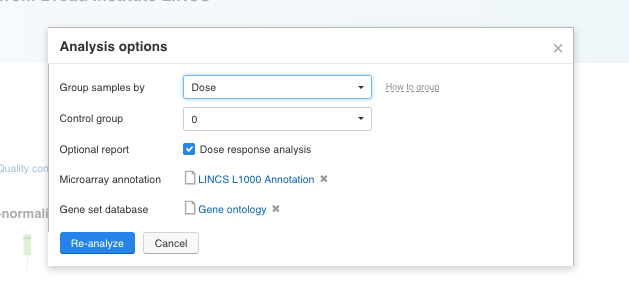
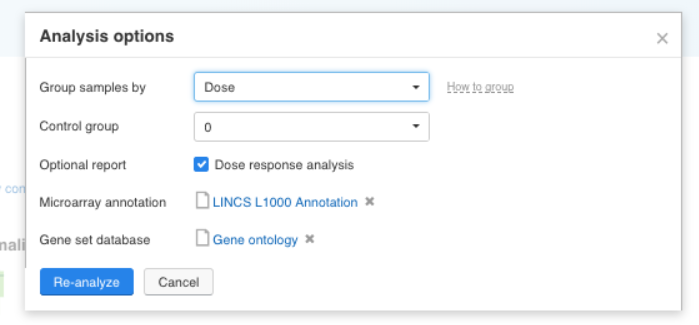
fix pictures

Changed region(s): [[0.0, 0.0312, 0.9968, 0.9688], [0.2719, 0.1875, 0.7552, 0.5312]]

diff --git a/source/tutorials/Microarray_explorer/microarray-explorer-tutorial.rst b/source/tutorials/Microarray_explorer/microarray-explorer-tutorial.rst
@@ -27,6 +27,7 @@ Signatures (LINCS) `Project`_ :
 Click the name of the experiment and open it in **Metainfo Editor** to learn more:
 
 .. image:: images/me.png
+   :align: center
 
 .. _Project: http://www.lincsproject.org/
 
@@ -42,11 +43,13 @@ There are two tabs on the opening application page:
 1. **Description tab**, where you can find metadata associated with the data set of your choice.
 
 .. image:: images/description.png
+   :align: center
 
 2. **Differential expression** tab that allows you to run the pipeline and
    change default parameters if it is necessary.
 
 .. image:: images/dif-exp-tab.png
+   :align: center
 
 You can consider setting the following parameters:
 
@@ -73,6 +76,7 @@ You can consider setting the following parameters:
 To start the analysis just click on the **Analyze** button.
 
 .. image:: images/start-analysis.png
+   :align: center
 
 In the earlier stage in the microarray data analysis Microarray Explorer performs **normalisation**
 to eliminate some sources of technical variation which can affect the measured gene expression levels.
@@ -84,6 +88,8 @@ the results and apply filters to show particular genes and pathways. Change para
 the analysis** if necessary.
 
 .. image:: images/re-run.png
+   :scale: 75 %
+   :align: center
 
 You can save the results with set filters as an immutable view by clicking the
 **Save current view** and share the view with your collaborator by clicking the **Share** link.
@@ -99,17 +105,20 @@ Let's look at the interactive reports that can be generated by the Microarray Ex
    be filtered and sorted by Log FC, Log Expr, and FDR parameters.
 
 .. image:: images/DE.png
+   :align: center
 
 2. **Benchmark dose** report.  The output of *Dose Response Analysis* that represents the compound
    dosages at which genes start to show significant expression changes, i.e. the *Benchmark Doses* (BMDs).
 
 .. image:: images/benchmarck-dose.png
+   :align: center
 
 3. **Gene set enrichment** report. The report provides results of *Fisher’s hypergeometric test* between significant
    differentially expressed genes and gene sets corresponding to pathways or/and biological functions,
    which allows to determine whether differentially expressed genes were affected.
 
 .. image:: images/gene-set-enrichment.png
+   :align: center
 
 4. **Quality control** report. This report represents results of a quality assessment of microarrays
    and allows to detect apparent outlier arrays. To remove outliers select the probes that should be excluded
@@ -117,12 +126,14 @@ Let's look at the interactive reports that can be generated by the Microarray Ex
    click the **Remove outliers** button to subset the dataset and re-run the analysis.
 
 .. image:: images/qc.png
+   :align: center
 
 5. **Differential expression similarity search** link opens *Differential expression
    similarity search* application that helps you to find experiments characterised by similar differential
    expression signatures.
 
 .. image:: images/similarity-search.png
+   :align: center
 
 
 Explore existing reports
